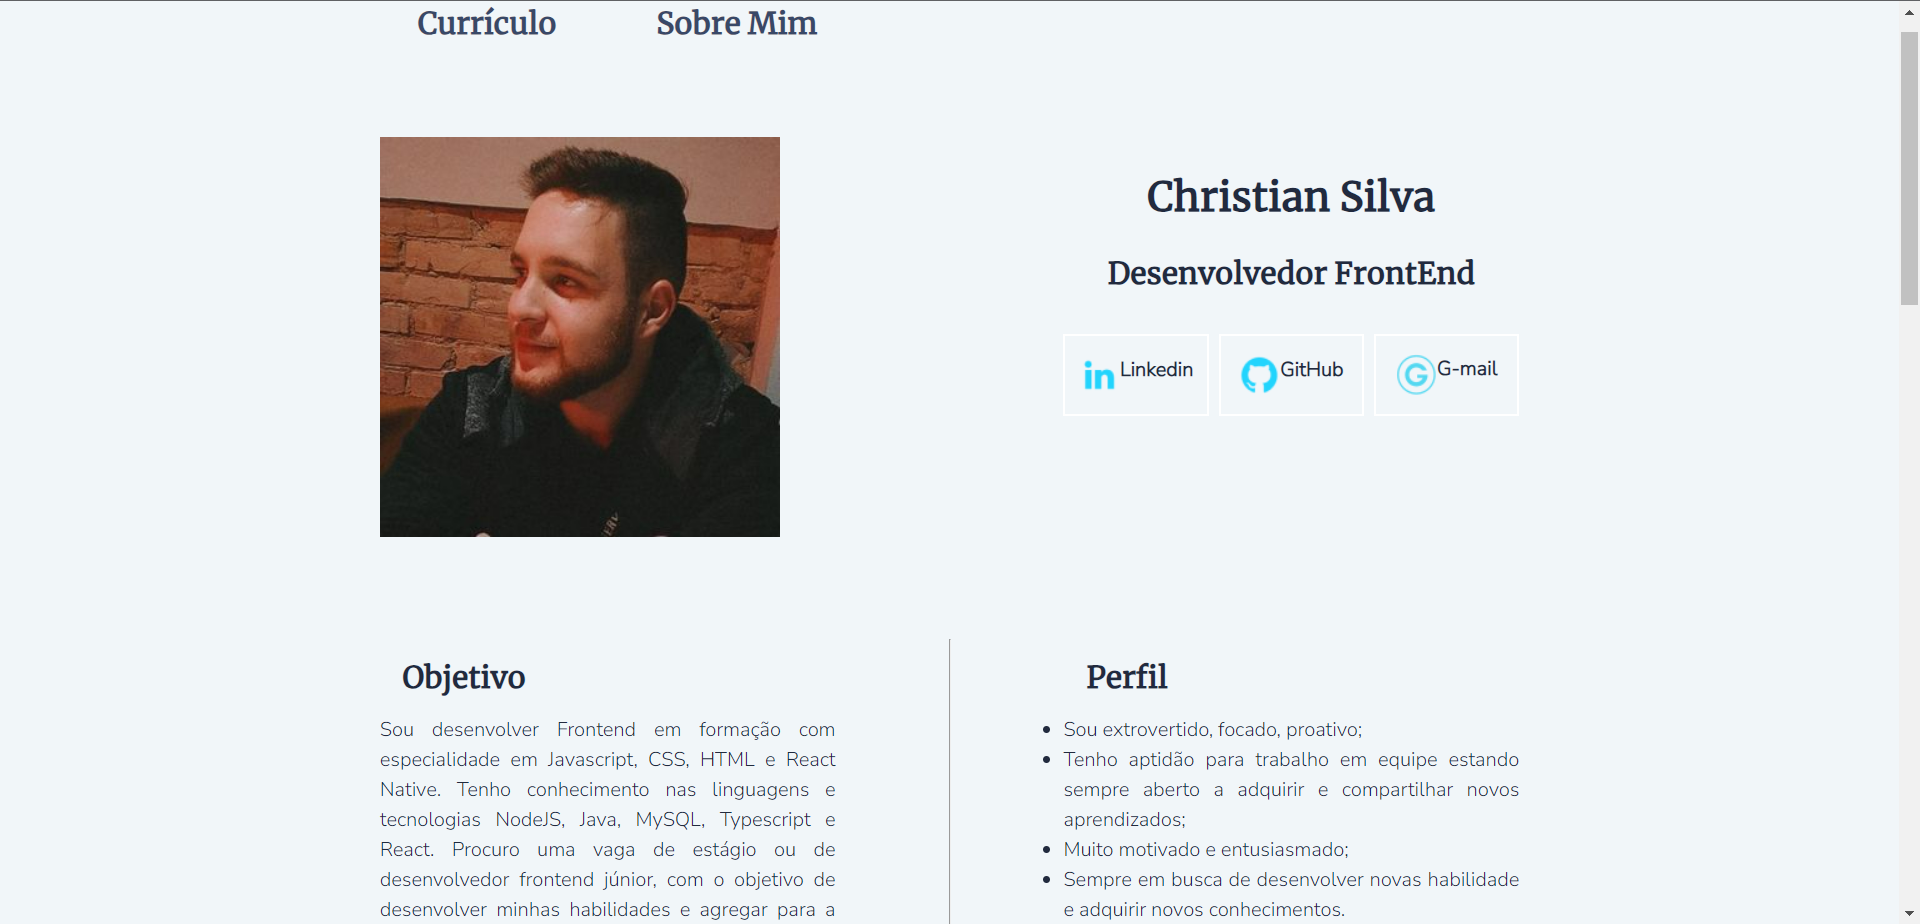
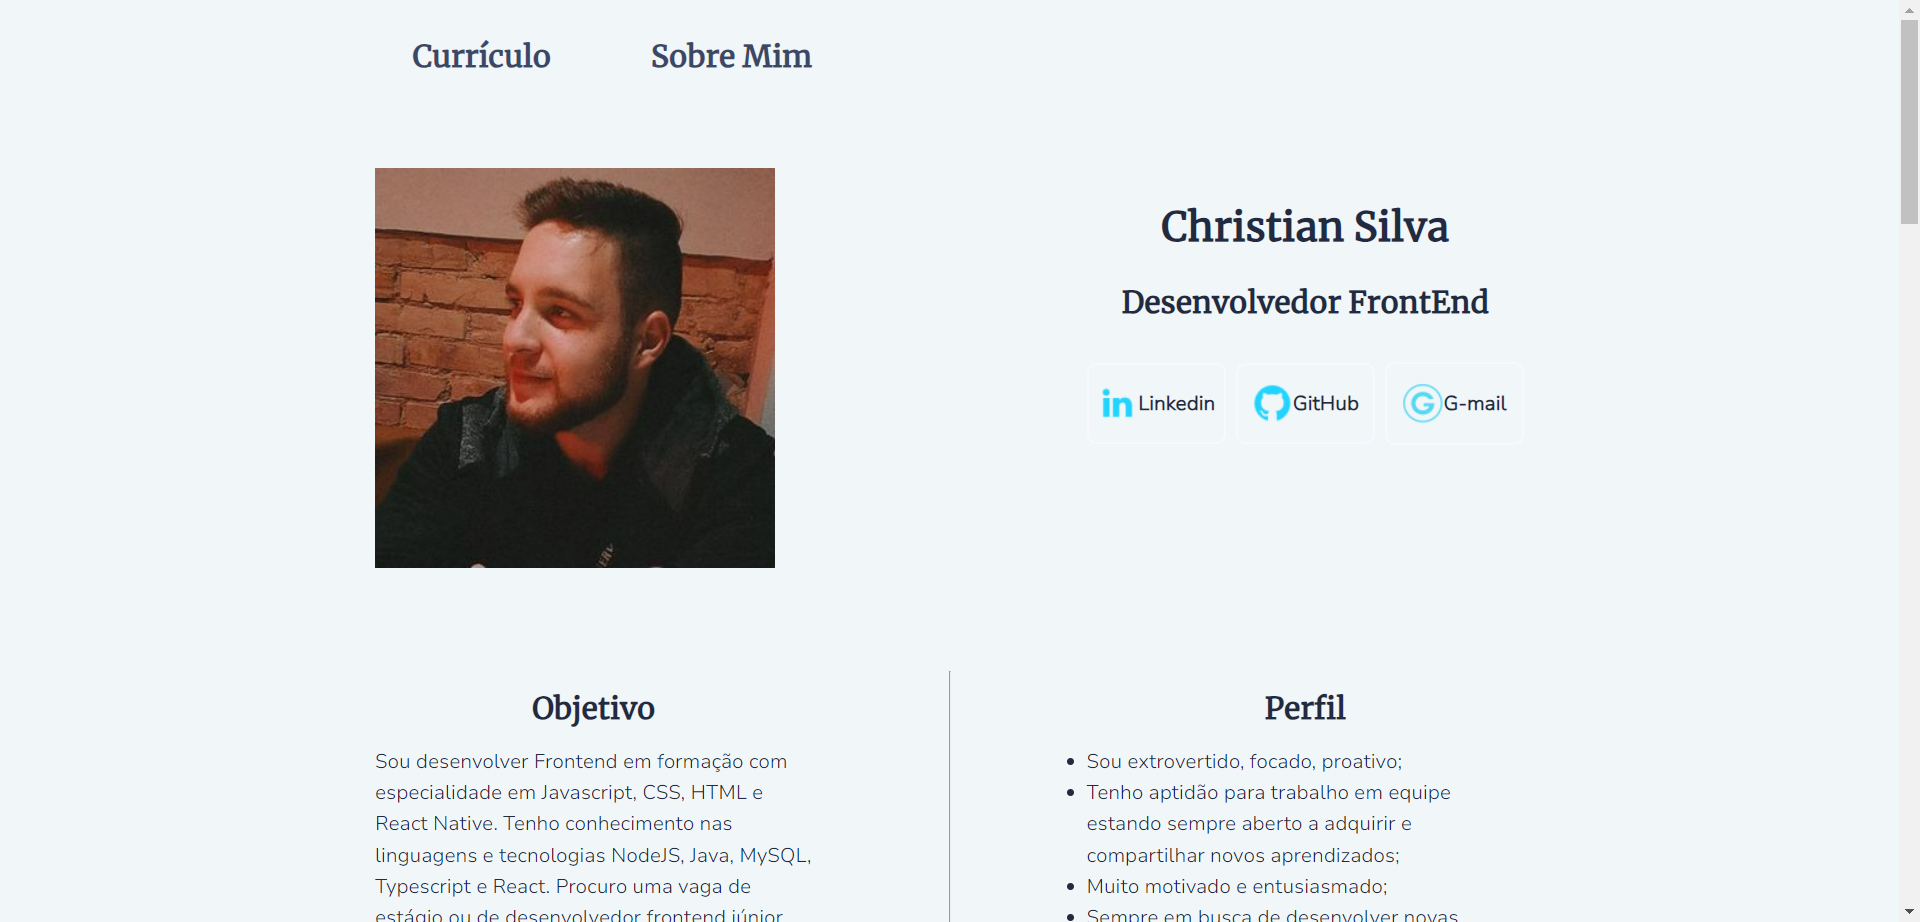
Correçoes-responsividade

diff --git a/styles/style.css b/styles/style.css
@@ -34,7 +34,7 @@ body {
 }
 
 .cabecalho {
-    padding: 30px 0px 0px 330px;
+    padding: 30px 0px 0px 400px;
 }
 
 .cabecalho__menu {
@@ -54,9 +54,9 @@ body {
     padding: 75px 300px;
     display: flex;
     text-align: center;
-    justify-content: space-between;
+    justify-content: space-around;
     flex-wrap: wrap;
-    gap: 82px;
+    gap: 99px;
 }
 
 .apresentacao__about {
@@ -70,8 +70,8 @@ body {
 }
 
 .apresentacao_imagem {
-    width: 300px;
-    height: 300px;
+    width: 18.75rem;
+    height: 18.75rem;
 
 }
 
@@ -154,7 +154,9 @@ body {
 
 @media (min-width:320px) and (max-width: 480px) {
     .cabecalho {
-        padding: 5% 0% 5% 20%
+        padding: 2rem 0rem;
+        display: flex;
+        justify-content: center;
     }
 
     .cabecalho__menu__links {
@@ -162,14 +164,25 @@ body {
     }
 
     .apresentacao {
-        padding: 0% 5%;
+        padding: 0rem 1rem;
         display: flex;
         flex-direction: column;
         align-items: center;
+        gap: 40px;
     }
 
     .apresentacao__about {
-        padding: 10%;
+        padding: 0rem;
+        display: flex;
+        justify-content: center;
+    }
+
+    .apresentacao__nome {
+        font-size: 1.5rem;
+    }
+
+    .apresentacao__profissao {
+        font-size: 1.3rem;
     }
 
     .apresentacao__titulos {
@@ -191,20 +204,21 @@ body {
 
 @media (min-width:481px) and (max-width: 768px) {
     .cabecalho {
-        padding: 5% 0% 10% 0%;
+        padding: 1.5625rem 0rem 3.0625rem 0rem;
         display: flex;
         justify-content: center;
     }
 
     .apresentacao {
-        padding: 0% 10%;
+        padding: 0rem 3.0625rem;
         display: flex;
         flex-direction: column;
         align-items: center;
+        gap: 40px;
     }
 
     .apresentacao__about {
-        padding: 10%;
+        padding: 3.0625rem;
         display: flex;
         justify-content: center;
     }
@@ -212,77 +226,164 @@ body {
 
 @media (min-width:769px) and (max-width: 1024px) {
     .cabecalho {
-        padding: 5% 0% 5% 15%;
+        padding: 2.4375rem 0rem 2.4375rem 7.25rem;
     }
 
     .apresentacao {
-        padding: 3%;
+        padding: 1rem;
         display: flex;
+        justify-content: space-around;
         align-items: center;
-        gap: 10px;
+        gap: 20px;
     }
 
     .apresentacao__conteudo {
-        width: 40%
+        width: 20rem;
     }
 
     .apresentacao__about {
-        padding: 5%;
+        padding: 2rem;
+        display: flex;
+        justify-content: space-around;
     }
 }
 
-@media (min-width: 1025px) and (max-width: 1200px) {
+@media (min-width: 1025px) and (max-width: 1076px) {
     .cabecalho {
-        padding: 5% 15%;
+        padding: 3.5rem 15rem;
     }
 
     .apresentacao {
-        padding: 0% 7%;
+        padding: 0rem 7rem;
+        display: flex;
+        justify-content: space-around;
+        gap: 50px;
     }
 
     .apresentacao__about {
-        padding: 10%;
+        padding: 7rem;
     }
 }
 
-@media (min-width: 1201px) and (max-width: 1236px) {
+@media (min-width: 1077px) and (max-width: 1152px) {
     .cabecalho {
-        padding: 73px 0px 73px 263px;
+        padding: 3.5rem 15rem;
     }
 
     .apresentacao {
-        padding: 0% 15%;
+        padding: 0rem 7rem;
+        display: flex;
+        justify-content: space-around;
+        gap: 75px;
     }
 
     .apresentacao__about {
-        padding: 10%;
+        padding: 7rem;
     }
 }
 
-@media (min-width: 1237px) and (max-width: 1352px) {
+@media (min-width: 1152px) and (max-width: 1246px) {
     .cabecalho {
-        padding: 73px 0px 73px 263px;
+        padding: 3.5rem 15rem;
     }
 
     .apresentacao {
-        padding: 0% 15%;
+        padding: 0rem 9.3rem;
+        display: flex;
+        justify-content: space-around;
     }
 
     .apresentacao__about {
-        padding: 10%;
+        padding: 7rem;
     }
 }
 
-@media (min-width: 1353px) and (max-width: 1464px) {
+@media (min-width: 1247px) and (max-width: 1324px) {
     .cabecalho {
-        padding: 80px 0px 80px 300px;
+        padding: 4.5rem 0rem 4.5rem 15rem;
     }
 
     .apresentacao {
-        padding: 0% 18%;
+        padding: 0rem 11.75rem;
     }
 
     .apresentacao__about {
-        padding: 10%;
+        padding: 7rem;
+    }
+}
+
+@media (min-width: 1325px) and (max-width: 1405px) {
+    .cabecalho {
+        padding: 4.5rem 0rem 4.5rem 15rem;
+    }
+
+    .apresentacao {
+        padding: 0rem 14rem;
+        gap: 85px;
+    }
+
+    .apresentacao__about {
+        padding: 7rem;
+    }
+}
+
+@media (min-width: 1406px) and (max-width: 1464px) {
+    .cabecalho {
+        padding: 4.5rem 0rem 4.5rem 15rem;
+    }
+
+    .apresentacao {
+        padding: 0rem 16rem;
+        display: flex;
+        justify-content: space-around;
+        gap: 90px;
+    }
+
+    .apresentacao__about {
+        padding: 7rem;
+    }
+}
+
+@media (min-width: 1601px) and (max-width: 1702px) {
+    .cabecalho {
+        padding: 30px 0px 0px 430px;
+    }
+
+    .apresentacao {
+        padding: 80px 350px;
+        gap: 100px;
+    }
+}
+
+@media (min-width: 1703px) and (max-width: 1802px) {
+    .cabecalho {
+        padding: 30px 0px 0px 500px;
+    }
+
+    .apresentacao {
+        padding: 80px 400px;
+        gap: 100px;
+    }
+}
+
+@media (min-width: 1803px) and (max-width: 1922px) {
+    .cabecalho {
+        padding: 30px 0px 0px 530px;
+    }
+
+    .apresentacao {
+        padding: 80px 400px;
+        gap: 140px;
+    }
+}
+
+@media (min-width: 1923px) and (max-width: 2000px) {
+    .cabecalho {
+        padding: 30px 0px 0px 550px;
+    }
+
+    .apresentacao {
+        padding: 80px 450px;
+        gap: 140px;
     }
 }
